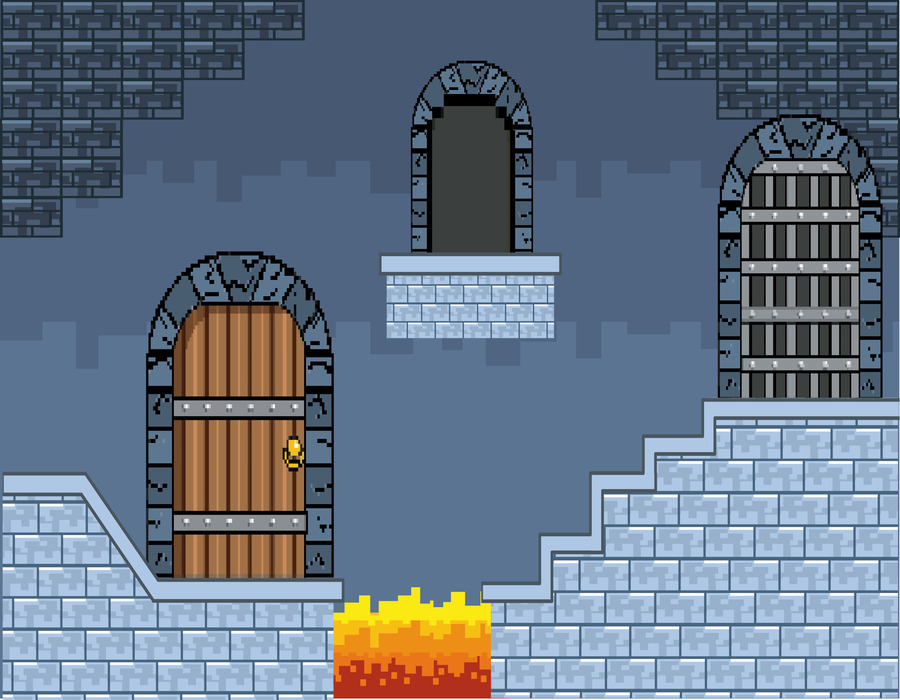
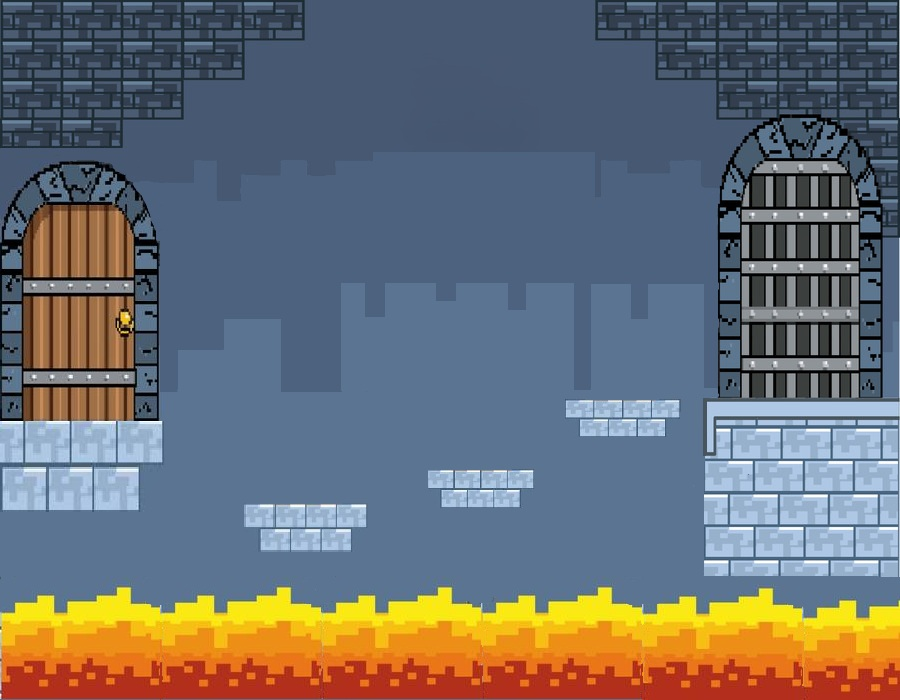
Fatte i rettangoli delle chest e cambiato lo sfondo2 e sistemato il gameOVER

diff --git a/src/it/edu/iisgubbio/lovelace/GiocoInterattivo.java b/src/it/edu/iisgubbio/lovelace/GiocoInterattivo.java
@@ -124,7 +124,10 @@ public class GiocoInterattivo {
 			}
 		}
 		if (evento.getCode() == KeyCode.W || evento.getCode() == KeyCode.UP) {
-			if (System.currentTimeMillis() - tempoSalto > 100 && Utilita.collisioniRettangoli(mDiRettangoli[0], rettangoloAda)!=0) { // puoi ripetere il salto 1Sec dopo la fine del precedente
+			if (System.currentTimeMillis() - tempoSalto > 100
+					&& Utilita.collisioniRettangoli(mDiRettangoli[0], rettangoloAda) != 0) { // puoi ripetere il salto
+																								// 1Sec dopo la fine del
+																								// precedente
 				if (areaGioco.getId().equals("gioco2")) {
 					saltoAda(440); // Attiva il salto
 				} else if (areaGioco.getId().equals("gioco1")) {
@@ -154,7 +157,7 @@ public class GiocoInterattivo {
 	 */
 	private void saltoAda(int posizioneDaRaggiungere) {
 		if (saltoTimeline == null && !areaGioco.getId().equals("gioco1")) {
-			double altezzaSalto = 250.0;
+			double altezzaSalto = 210.0;
 			saltoTimeline = new Timeline(
 					// Salita
 					new KeyFrame(Duration.millis(9), event -> {
@@ -173,9 +176,9 @@ public class GiocoInterattivo {
 //								adaFerma.setY(adaFerma.getY() + altezzaSalto / 50);
 //								rettangoloAda.setY(adaFerma.getY() + adaFerma.getFitHeight() - 20);
 //							} else {
-								tempoSalto = System.currentTimeMillis(); // salviamo quando è finito il salto
+				tempoSalto = System.currentTimeMillis(); // salviamo quando è finito il salto
 //								saltoTimeline.stop();
-								saltoTimeline = null;
+				saltoTimeline = null;
 //							}
 //						}));
 //				saltoTimeline.play();
@@ -189,28 +192,28 @@ public class GiocoInterattivo {
 	 * 
 	 * @return di quanto deve essere l'offset
 	 */
-	private int valoreOffset() {
-		double adaPosizioneX = adaImageView.getX() + puntoInizioCorpoAda;
-		if (areaGioco.getId().equals("gioco2")) {
-			// i controlli delle posizioni devono essere eseguiti da quello con una
-			// posizione più alta a quello più piccolo
-			// per salire il valore deve essere negativo per scendere positivo
-			if (adaPosizioneX >= 600) {
-				return -170;
-			} else if (adaPosizioneX >= 520) {
-				return -140;
-			} else if (adaPosizioneX >= 430) {
-				return -100;
-			} else if (adaPosizioneX >= 380) {
-				return -40;
-			} else if (adaPosizioneX >= 300) {
-				return 5;
-			} else if (adaPosizioneX >= 170) {
-				return 200;
-			}
-		}
-		return 0;
-	}
+//	private int valoreOffset() {
+//		double adaPosizioneX = adaImageView.getX() + puntoInizioCorpoAda;
+//		if (areaGioco.getId().equals("gioco2")) {
+//			// i controlli delle posizioni devono essere eseguiti da quello con una
+//			// posizione più alta a quello più piccolo
+//			// per salire il valore deve essere negativo per scendere positivo
+//			if (adaPosizioneX >= 600) {
+//				return -170;
+//			} else if (adaPosizioneX >= 520) {
+//				return -140;
+//			} else if (adaPosizioneX >= 430) {
+//				return -100;
+//			} else if (adaPosizioneX >= 380) {
+//				return -40;
+//			} else if (adaPosizioneX >= 300) {
+//				return 5;
+//			} else if (adaPosizioneX >= 170) {
+//				return 200;
+//			}
+//		}
+//		return 0;
+//	}
 
 	// Metodo per cambiare scena (continuazione logica del gioco)
 	private void cambioScena(RaccoltaTesti testoDialogo) {
@@ -232,8 +235,13 @@ public class GiocoInterattivo {
 			scenadue(testoDialogo, gruppo);
 		}
 	}
-	Rectangle testaAda=new Rectangle(rettangoloAda.getWidth(),rettangoloAda.getHeight());
-	
+
+	Rectangle testaAda = new Rectangle(25, 30);
+	Rectangle lava = new Rectangle(200, 60);
+
+	Rectangle chest1 = Utilita.rettangolo(200, 250, 100, 100);
+	Rectangle chest2 = Utilita.rettangolo(460, 100, 100, 100);
+
 	boolean avanti = true;
 	Domande domanda;
 	int nDomanda = 1;
@@ -242,24 +250,22 @@ public class GiocoInterattivo {
 	Pane schermataGioco = new Pane(); // variabile di appoggio per areaGioco
 	OggettoPannello dialogo; // per un dialogo
 	Group dialogoView; // per visualizzare un dialogo
-	Rectangle mDiRettangoli[][] = { { 
-		Utilita.rettangolo(3.5, 575, 190, 5), 
-		Utilita.rettangolo(335.5, 580, 80, 5),
-		Utilita.rettangolo(413, 530, 80, 60), 
-		Utilita.rettangolo(476, 470, 80, 60), 
-		Utilita.rettangolo(556, 430, 80, 60), 
-		Utilita.rettangolo(636,400,260, 60),
-		Utilita.rettangolo(230, 400, 174, 30), 
-		Utilita.rettangolo(435,250,180, 30) 
-	}, {
+	Rectangle mDiRettangoli[][] = { { Utilita.rettangolo(6.5, 575, 190, 5), Utilita.rettangolo(335.5, 580, 90, 5),
+			Utilita.rettangolo(413, 530, 90, 70), Utilita.rettangolo(476, 470, 90, 70),
+			Utilita.rettangolo(556, 430, 90, 70), Utilita.rettangolo(636, 400, 280, 70),
+			Utilita.rettangolo(170, 350, 170, 20), Utilita.rettangolo(415, 180, 180, 30) }, {
 
-	} };
+			} };
 
 	public void scenadue(RaccoltaTesti testoDialogo, Group gruppo) {
-		testaAda.setX(rettangoloAda.getX());
-		testaAda.setY(rettangoloAda.getY());
+		testaAda.setX(rettangoloAda.getX() - 10);
+		testaAda.setY(rettangoloAda.getY() - adaFerma.getFitHeight() + 27);
 		testaAda.setFill(Color.BLUE);
-		System.out.println(rettangoloAda.getX()+" "+rettangoloAda.getY());
+
+		lava.setFill(Color.rgb(1, 0, 0, 0.5));
+		lava.setX(180);
+		lava.setY(600);
+		// System.out.println(rettangoloAda.getX()+" "+rettangoloAda.getY());
 		int nOggettiCollisione = Utilita.collisioniRettangoli(mDiRettangoli[0], rettangoloAda);
 		if (nOggettiCollisione > 1) {
 			avanti = false;
@@ -267,9 +273,21 @@ public class GiocoInterattivo {
 			avanti = true;
 		}
 
-		if (nOggettiCollisione == 0 && saltoTimeline==null) {
-			adaFerma.setY(adaFerma.getY() + 250 / 50);
+		if (Utilita.collisioniTetto(mDiRettangoli[0], testaAda)) {
+			if (saltoTimeline != null) {
+				tempoSalto = System.currentTimeMillis();
+				saltoTimeline.stop();
+				saltoTimeline = null;
+			}
+		}
+
+		if (nOggettiCollisione == 0 && saltoTimeline == null) {
+			adaFerma.setY(adaFerma.getY() + 210 / 50);
 			rettangoloAda.setY(adaFerma.getY() + adaFerma.getFitHeight() - 20);
+		}
+
+		if (Utilita.collisioniLava(lava, testaAda)) {
+			gameover = new GameOver(areaGioco, testoDialogo, gruppo);
 		}
 
 		if (!areaGioco.getId().equals("gioco2")) {
@@ -282,7 +300,7 @@ public class GiocoInterattivo {
 //			}
 
 			areaGioco.getChildren().addAll(mDiRettangoli[0]);
-			areaGioco.getChildren().add(testaAda);
+			areaGioco.getChildren().addAll(testaAda, lava, chest1, chest2);
 			areaGioco.setId("gioco2");
 			adaImageView.setFitWidth(150);
 			adaImageView.setFitHeight(150);
@@ -330,7 +348,7 @@ public class GiocoInterattivo {
 
 		// come far comparire
 
-		if (adaImageView.getX() > 5000000) { // TODO: da cambiare con l'avvenuta collisione
+		if (Utilita.collisioneChest(chest1, rettangoloAda, chest2) >0) {
 			if (domanda == null) {
 				// creiamo una copia di areaGioco
 				for (int i = 0; i < areaGioco.getChildren().size(); i++) {
@@ -361,13 +379,20 @@ public class GiocoInterattivo {
 				if (domanda.isRispostaGiusta() || System.currentTimeMillis() - timeDomande > 30000) {
 					nDomanda++;
 					domanda = null;
-					adaImageView.setX(10);
 					areaGioco.getChildren().clear();
 //	    			System.out.println("ritorno a gioco");
 //	    			System.out.println(schermataGioco.getChildren());
 					for (int i = 0; i < schermataGioco.getChildren().size(); i++) {
 						areaGioco.getChildren().add(schermataGioco.getChildren().get(i));
 					}
+					if (Utilita.collisioneChest(chest1, rettangoloAda, chest2) == 1) {
+						areaGioco.getChildren().remove(chest1);
+
+					} else if (Utilita.collisioneChest(chest1, rettangoloAda, chest2) == 2) {
+						areaGioco.getChildren().remove(chest2);
+
+					}
+
 //	    			System.out.println(areaGioco.getChildren());
 				}
 			}

diff --git a/src/it/edu/iisgubbio/lovelace/GameOver.java b/src/it/edu/iisgubbio/lovelace/GameOver.java
@@ -10,10 +10,16 @@ import it.edu.iisgubbio.lovelace.*;
 import javafx.scene.Group;
 
 public class GameOver {
-
+	RaccoltaTesti testi;
+	Group group;
+	Pane areaGioco;
     public GameOver(Pane areaGioco, RaccoltaTesti testoDialogo, Group gruppo) {
         // Imposta lo sfondo nero dell'AreaGioco
-        areaGioco.setStyle("-fx-background-color: black;");
+        areaGioco.getChildren().clear();
+        testi=testoDialogo;
+        group=gruppo;
+        this.areaGioco=areaGioco;
+        //areaGioco.setStyle("-fx-background-color: black;");
 
         // Titolo "GameOver"
         Text title = new Text("Game Over");
@@ -23,14 +29,25 @@ public class GameOver {
         // Pulsante "Ritenta"
         Button retryButton = new Button(testoDialogo.getString("ritenta"));
         retryButton.setFont(Font.font("Arial", 20));
-        //retryButton.setOnAction(e -> metodoDelPulsante()); // Collega il pulsante al metodo
+        retryButton.setOnAction(e -> metodoDelPulsante()); // Collega il pulsante al metodo
 
         // Layout verticale
         VBox layout = new VBox(20); // Spaziatura di 20 tra gli elementi
         layout.getChildren().addAll(title, retryButton);
+        layout.setMinWidth(250);
+        layout.setLayoutX(Menu.LARGHEZZA_AREA_GIOCO/2-layout.getMinWidth()/2);
+        layout.setMinHeight(250);
+        layout.setLayoutY(Menu.ALTEZZA_AREA_GIOCO/2-layout.getMinHeight()/2);
+        
+     
         layout.setAlignment(javafx.geometry.Pos.CENTER);
 
         // Aggiungi il layout al pannello principale (AreaGioco)
-        areaGioco.getChildren().addAll(areaGioco, layout);
+        areaGioco.getChildren().addAll(layout);
+        
+        
+    }
+    public void metodoDelPulsante() {
+		areaGioco.setId("MI FACCIO LE BAMBINE");
     }
 }

diff --git a/src/it/edu/iisgubbio/lovelace/Utilita.java b/src/it/edu/iisgubbio/lovelace/Utilita.java
@@ -15,6 +15,38 @@ public class Utilita {
 		return r;
 	}
 	
+	
+	public static boolean collisioniTetto(Rectangle rettangolo[], Rectangle testaAda) {
+		Shape intersezUno = Shape.intersect(rettangolo[6], testaAda);
+		Shape intersezDue = Shape.intersect(rettangolo[7], testaAda);
+
+		return (intersezUno.getBoundsInLocal().getWidth() != -1 || intersezDue.getBoundsInLocal().getWidth() != -1 || testaAda.getY()<=0 ) ;
+		
+		  
+	}
+	
+	public static int collisioneChest(Rectangle chest1, Rectangle rettangoloAda, Rectangle chest2) {
+		Shape intersezUno = Shape.intersect(chest1, rettangoloAda);
+		Shape intersezDue = Shape.intersect(chest2, rettangoloAda);
+		int nChest=0;
+			
+			if(intersezUno.getBoundsInLocal().getWidth() != -1 ) {
+				 nChest=1;
+			}else if(intersezDue.getBoundsInLocal().getWidth() != -1 ){
+				 nChest=2;
+			}
+		return nChest;
+		  
+	}
+	
+	
+	public static boolean collisioniLava(Rectangle lava, Rectangle testaAda) {
+		Shape intersezUno = Shape.intersect(lava, testaAda);
+
+		return (intersezUno.getBoundsInLocal().getWidth() != -1) ;
+		
+		  
+	}
 	public static int collisioniRettangoli(Rectangle rettangolo[], Rectangle ada) {
 		int nCollisioni=0;
 		
@@ -22,6 +54,8 @@ public class Utilita {
 		for (int i=0; i<rettangolo.length; i++) {
 			Shape intersezUno = Shape.intersect(rettangolo[i], ada);
 			if (intersezUno.getBoundsInLocal().getWidth() != -1) {
+				//System.out.println("collide");
+
 				nCollisioni++;
 			}
 
